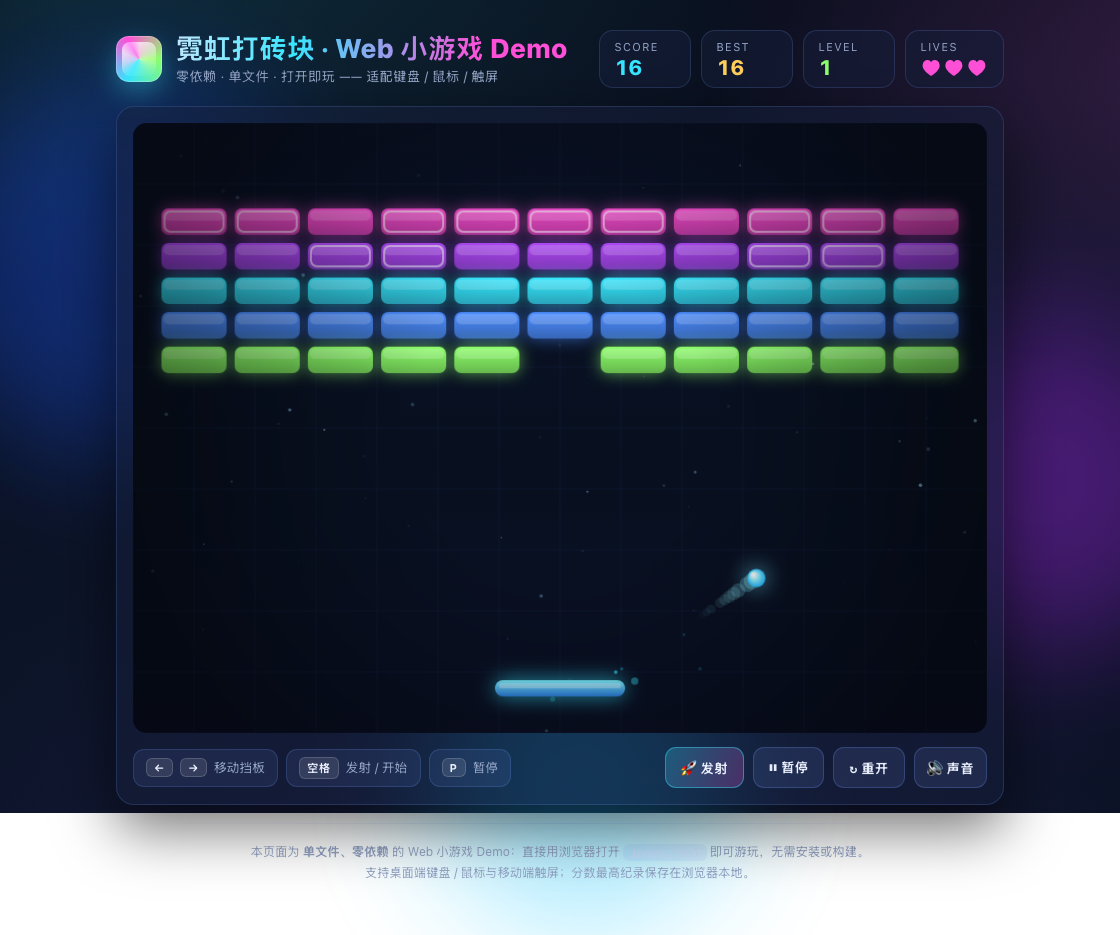
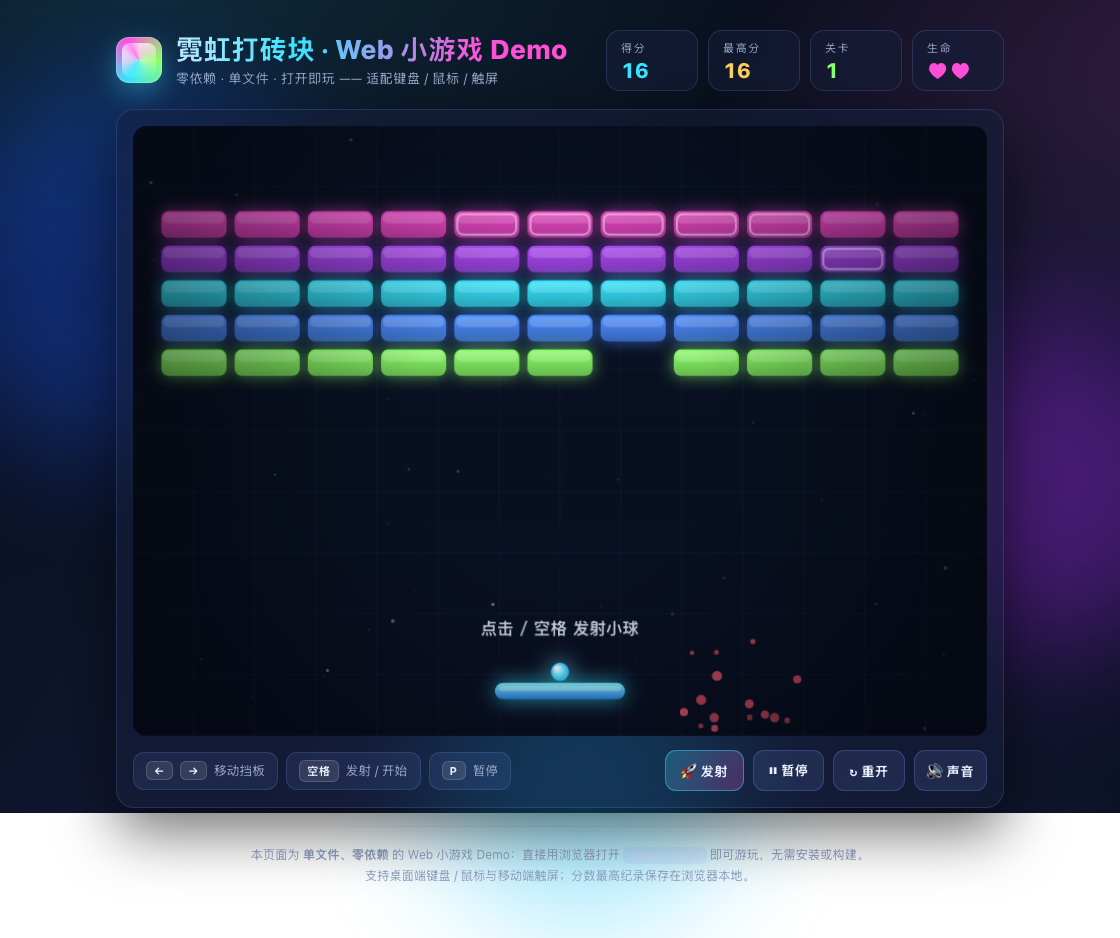
feat: localize score panel labels to Chinese
Per the review request, change the game HUD stat labels from English to
Chinese so the score panel reads 得分 / 最高分 / 关卡 / 生命. Refreshes the
before/after screenshots to match the new labels.

Verified in headless Chrome: zero JS runtime errors; gameplay and state
machine intact (ball breaks bricks, score updates, pause/resume + autostart
work).

diff --git a/index.html b/index.html
@@ -303,10 +303,10 @@
         </div>
       </div>
       <div class="stats" id="stats">
-        <div class="stat score"><span class="k">Score</span><span class="v" id="statScore">0</span></div>
-        <div class="stat best"><span class="k">Best</span><span class="v" id="statBest">0</span></div>
-        <div class="stat level"><span class="k">Level</span><span class="v" id="statLevel">1</span></div>
-        <div class="stat lives"><span class="k">Lives</span><span class="v" id="statLives">♥♥♥</span></div>
+        <div class="stat score"><span class="k">得分</span><span class="v" id="statScore">0</span></div>
+        <div class="stat best"><span class="k">最高分</span><span class="v" id="statBest">0</span></div>
+        <div class="stat level"><span class="k">关卡</span><span class="v" id="statLevel">1</span></div>
+        <div class="stat lives"><span class="k">生命</span><span class="v" id="statLives">♥♥♥</span></div>
       </div>
     </header>
 
